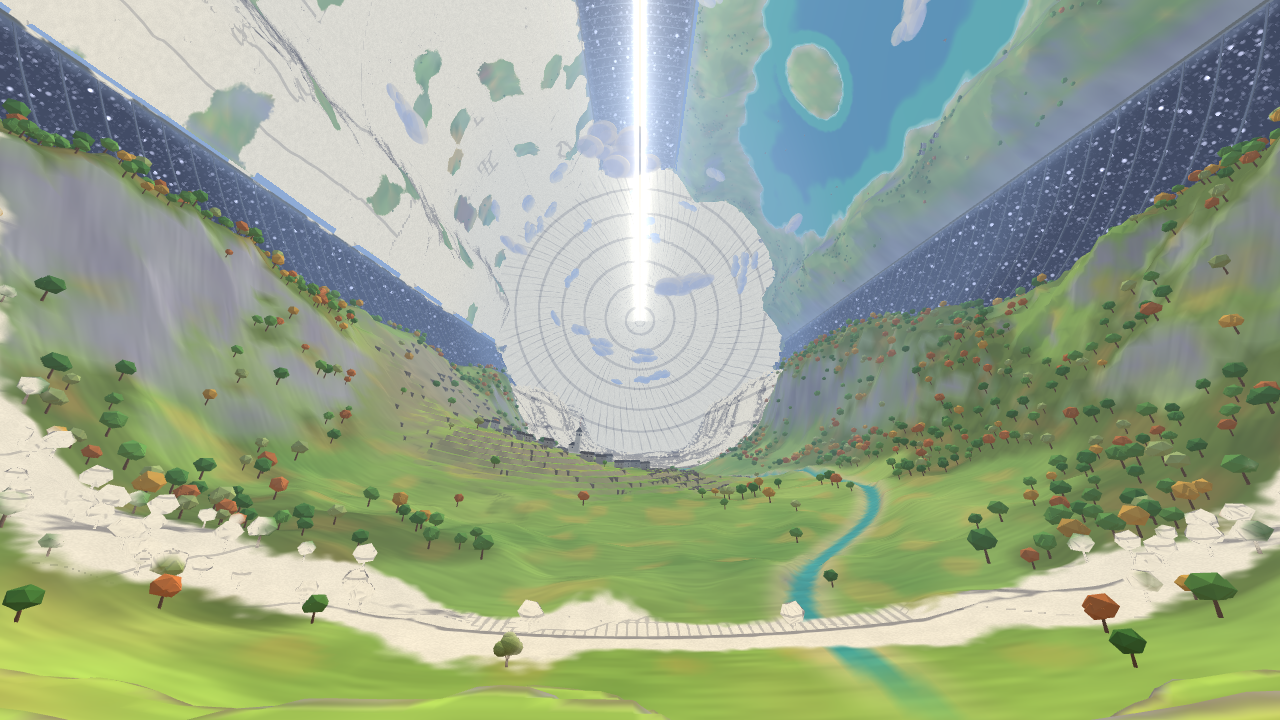
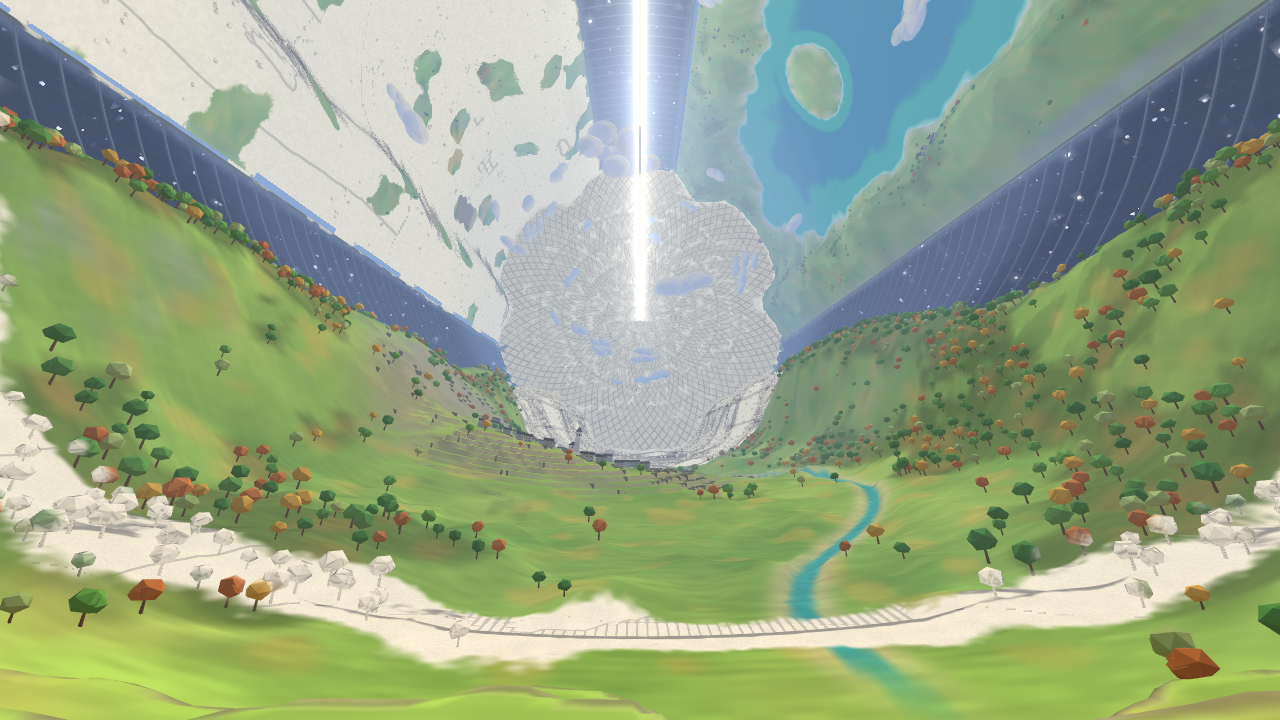
Cielo di Terra: istantanea del lavoro in corso
Claude-Session: https://claude.ai/code/session_016L3mhZfM8m5LnzdjzNNuFY

diff --git a/cielo-di-terra/moduli/oggetti/src/oggetti/muri.ts b/cielo-di-terra/moduli/oggetti/src/oggetti/muri.ts
@@ -8,7 +8,7 @@
 import * as THREE from 'three';
 import { Costruttore, mat, mescola } from '../costruttore';
 import { box, cil, ingombroDa, risultato, smorza } from '../comune';
-import { geoBoxC, geoCilindro, geoLastra, geoPiano } from '../forme';
+import { geoBoxC, geoCilindro, geoLastra, geoPiano, geoPietraFaccia } from '../forme';
 import { PALETTE } from '../palette';
 import { Rng, semeNumerico, type Seme } from '../rng';
 import type { Collider, OggettoProcedurale } from '../tipi';
@@ -105,7 +105,7 @@ export function creaMuroSecco(opz: OpzioniMuro = {}): OggettoProcedurale {
   const sp = opz.spessore ?? 0.6;
   const scarpa = opz.scarpa ?? 0.12;
   const interr = opz.interrata ?? 0.4;
-  const pietra = opz.pietra ?? 0.45;
+  const pietra = opz.pietra ?? 0.5;
   const det = opz.dettaglio ?? 'alto';
   const punti = opz.percorso ? opz.percorso.map(([x, z]) => new THREE.Vector3(x, 0, z)) : percorsoArco(opz.lunghezza ?? 8, opz.raggioCurva ?? 0);
   const camp = campiona(punti, 0.5);
@@ -168,7 +168,7 @@ export function creaMuroSecco(opz: OpzioniMuro = {}): OggettoProcedurale {
           const ang = Math.atan2(-c.t.z, c.t.x);
           const colore = mescola(tono, rng.prob(0.5) ? PALETTE.gneissChiaro : rng.prob(0.5) ? PALETTE.gneissScuro : PALETTE.gneissCaldo, rng.next() * 0.55);
           if (det === 'alto') {
-            b.aggiungi(geoLastra(s1 - s0 - 0.035, hc - 0.035, 0.16, rng.intero(0, 1e6), 0.14), {
+            b.aggiungi(geoPietraFaccia(s1 - s0 - 0.035, hc - 0.035, 0.16, rng.intero(0, 1e6), 0.14), {
               matrice: mat([centro.x, y + 0.017, centro.z], [lato > 0 ? -scarpa * 0.8 : scarpa * 0.4, ang + (lato > 0 ? 0 : Math.PI), rng.centrato(0.04)]),
               colore,
               variazione: 0.06,

diff --git a/cielo-di-terra/moduli/narrativa/test/verifica.test.ts b/cielo-di-terra/moduli/narrativa/test/verifica.test.ts
@@ -96,9 +96,9 @@ describe('verifica dei contenuti', () => {
   it('contenuti corretti: nessun errore e missioni completate nella simulazione', () => {
     const r = verificaContenuti(contenutiBuoni());
     expect(r.errori).toEqual([]);
-    expect(r.avvisi).toEqual([
-      "missione m1, passo rilievo (completamento): l'oggetto «velo» non è dato da nessun effetto (deve farlo il gioco?)",
-    ]);
+    expect(r.avvisi).toEqual([]);
+    expect(r.oggettiDelGioco).toEqual([{ id: 'velo', letto: ['missione m1, passo rilievo (completamento)'] }]);
+    expect(r.flagDelGioco).toEqual([]);
     expect(r.simulazione.map((s) => [s.missione, s.esito])).toEqual([
       ['prologo', 'completata'],
       ['m1', 'completata'],
@@ -161,7 +161,7 @@ describe('verifica dei contenuti', () => {
     expect(r.simulazione.map((s) => s.esito)).toEqual(['completata', 'mai avviata']);
     expect(r.simulazione[1]!.motivo).toMatch(/leva_tirata/);
     expect(r.ipotesi).toContain('flag «leva_tirata» impostato dal gioco (nessun effetto dei contenuti lo imposta)');
-    expect(r.avvisi.join('\n')).toMatch(/il flag «leva_tirata» non è impostato da nessun effetto/);
+    expect(r.flagDelGioco.map((f) => f.nome)).toEqual(['leva_tirata', 'mai_impostato']);
   });
 
   it('condizioni impossibili bloccano la simulazione con un motivo leggibile', () => {

diff --git a/cielo-di-terra/moduli/oggetti/src/forme.ts b/cielo-di-terra/moduli/oggetti/src/forme.ts
@@ -95,6 +95,20 @@ export function geoMassa(raggio: number, seme: number, irregolarita = 0.18, dett
   return g;
 }
 
+/**
+ * Pietra da muro vista da una faccia: come geoLastra ma senza la faccia posteriore (−Z), che resta
+ * nascosta nel corpo del muro (10 triangoli invece di 12).
+ */
+export function geoPietraFaccia(w: number, h: number, d: number, seme: number, irregolarita = 0.12): THREE.BufferGeometry {
+  const g = geoLastra(w, h, d, seme, irregolarita);
+  const idx = g.getIndex() as THREE.BufferAttribute;
+  // BoxGeometry: gruppi +x, −x, +y, −y, +z, −z (6 indici ciascuno): tolgo l'ultimo
+  const nuovi = Array.from(idx.array).slice(0, 30);
+  g.setIndex(nuovi);
+  g.clearGroups();
+  return g;
+}
+
 /** Lastra o blocco squadrato con gli spigoli un po' irregolari (facce piatte). */
 export function geoLastra(w: number, h: number, d: number, seme: number, irregolarita = 0.12): THREE.BufferGeometry {
   const g = new THREE.BoxGeometry(w, h, d);

diff --git a/cielo-di-terra/moduli/oggetti/test/oggetti.test.ts b/cielo-di-terra/moduli/oggetti/test/oggetti.test.ts
@@ -74,7 +74,8 @@ describe('catalogo: ogni generatore', () => {
       for (const c of a.collider) expect(colliderValido(c)).toBe(true);
       expect(a.appoggio.y).toBe(0);
       expect(Number.isFinite(a.ingombro.raggio)).toBe(true);
-      expect(a.ingombro.altezza).toBeGreaterThan(0);
+      // gli oggetti in prima persona vivono nello spazio camera (sotto l'occhio): niente altezza dal suolo
+      if (!a.nome.includes('prima-persona')) expect(a.ingombro.altezza).toBeGreaterThan(0);
       const m = misura(a.gruppo);
       expect(m.triangoli).toBeGreaterThan(0);
       expect(m.drawCall).toBeGreaterThan(0);

diff --git a/cielo-di-terra/docs/design/FASE1.md b/cielo-di-terra/docs/design/FASE1.md
@@ -164,7 +164,7 @@ Il primo nodo dell'elenco è quello d'ingresso. Le battute dei nodi sono dei per
 
 | Id | Che cos'è |
 |---|---|
-| `evento:linea_miccia` | la Linea si accende dal Tappo Sud: un fronte di luce che corre lungo l'asse (da z 0 alle 05:39 a z 3000 alle 06:00); sopra Corbella alle 05:40 |
+| `evento:linea_miccia` | la Linea si è accesa dal Tappo Sud alle 05:30 e il fronte di luce corre lungo l'asse a circa 100 m per minuto di gioco: quando Elvira apre la botola (05:39) il fronte sta arrivando da Mont, passa sopra Corbella alle 05:40 e raggiunge il Sordo alle 06:00 |
 | `evento:passero_vola_in_su` | un passero si alza dalla botola e vola dritto verso l'asse, attirando lo sguardo |
 | `evento:velati_si_voltano` | i velati in piazza si voltano tutti insieme verso Elvira |
 | `evento:ottavio_atterra_in_piazza` | Ottavio scende in spirale da una corrente calda sopra la grà e atterra correndo |
